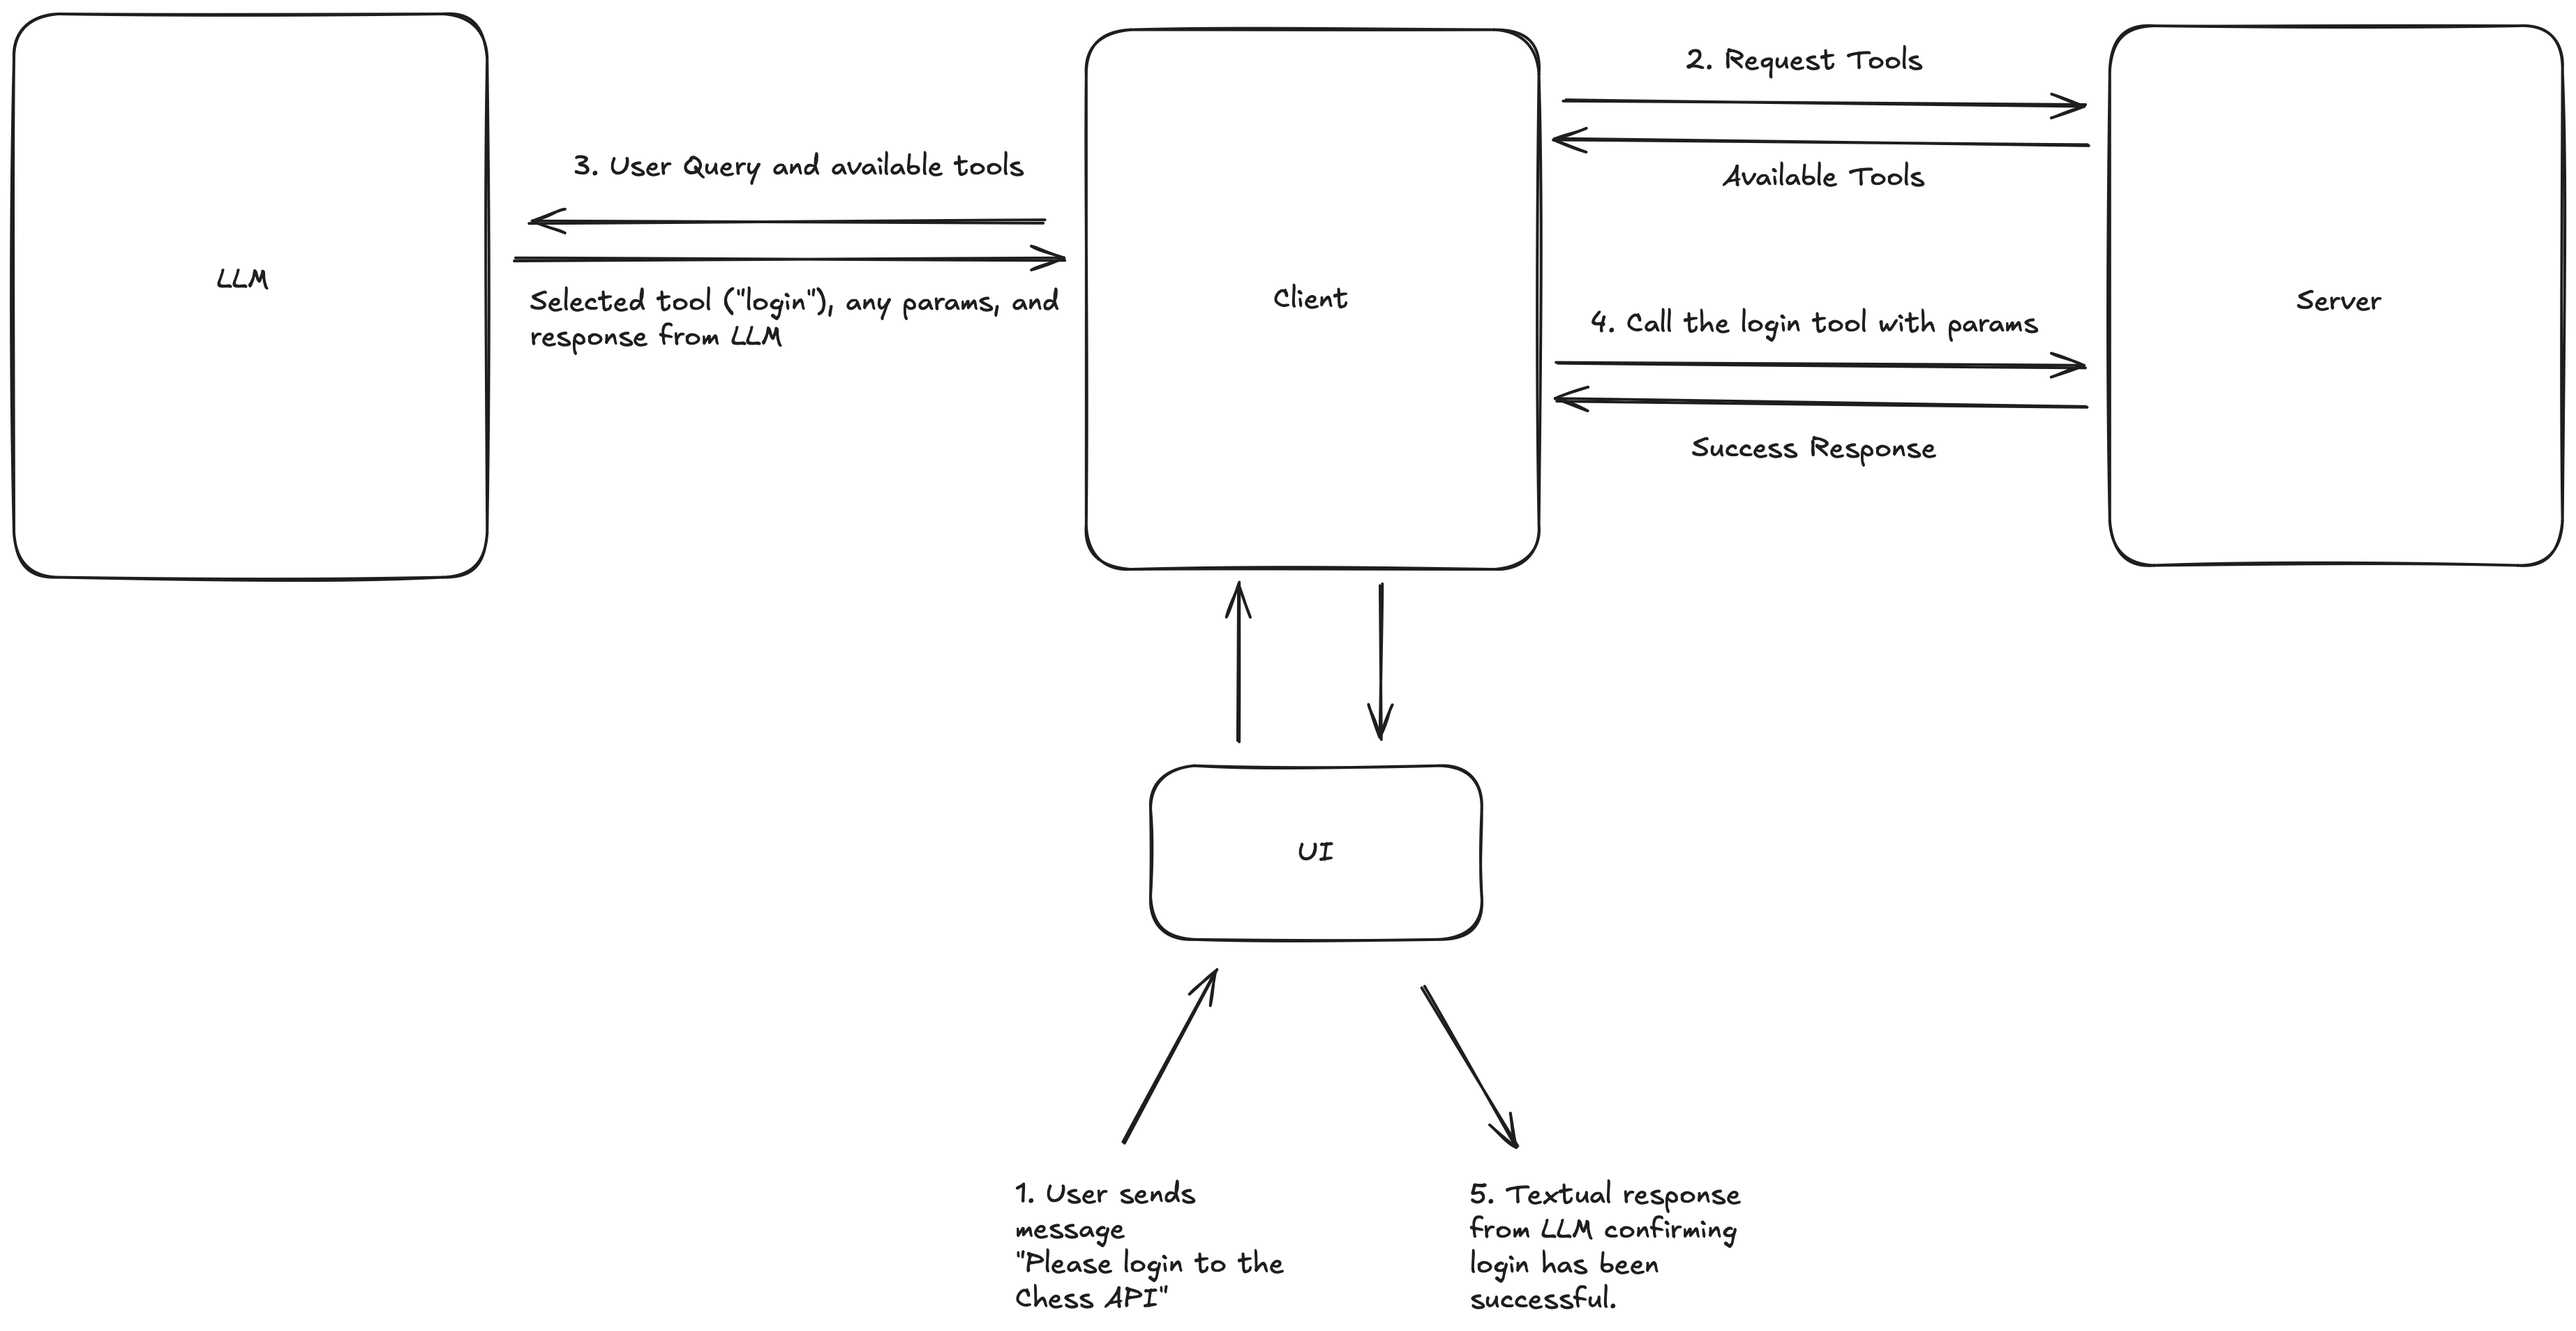
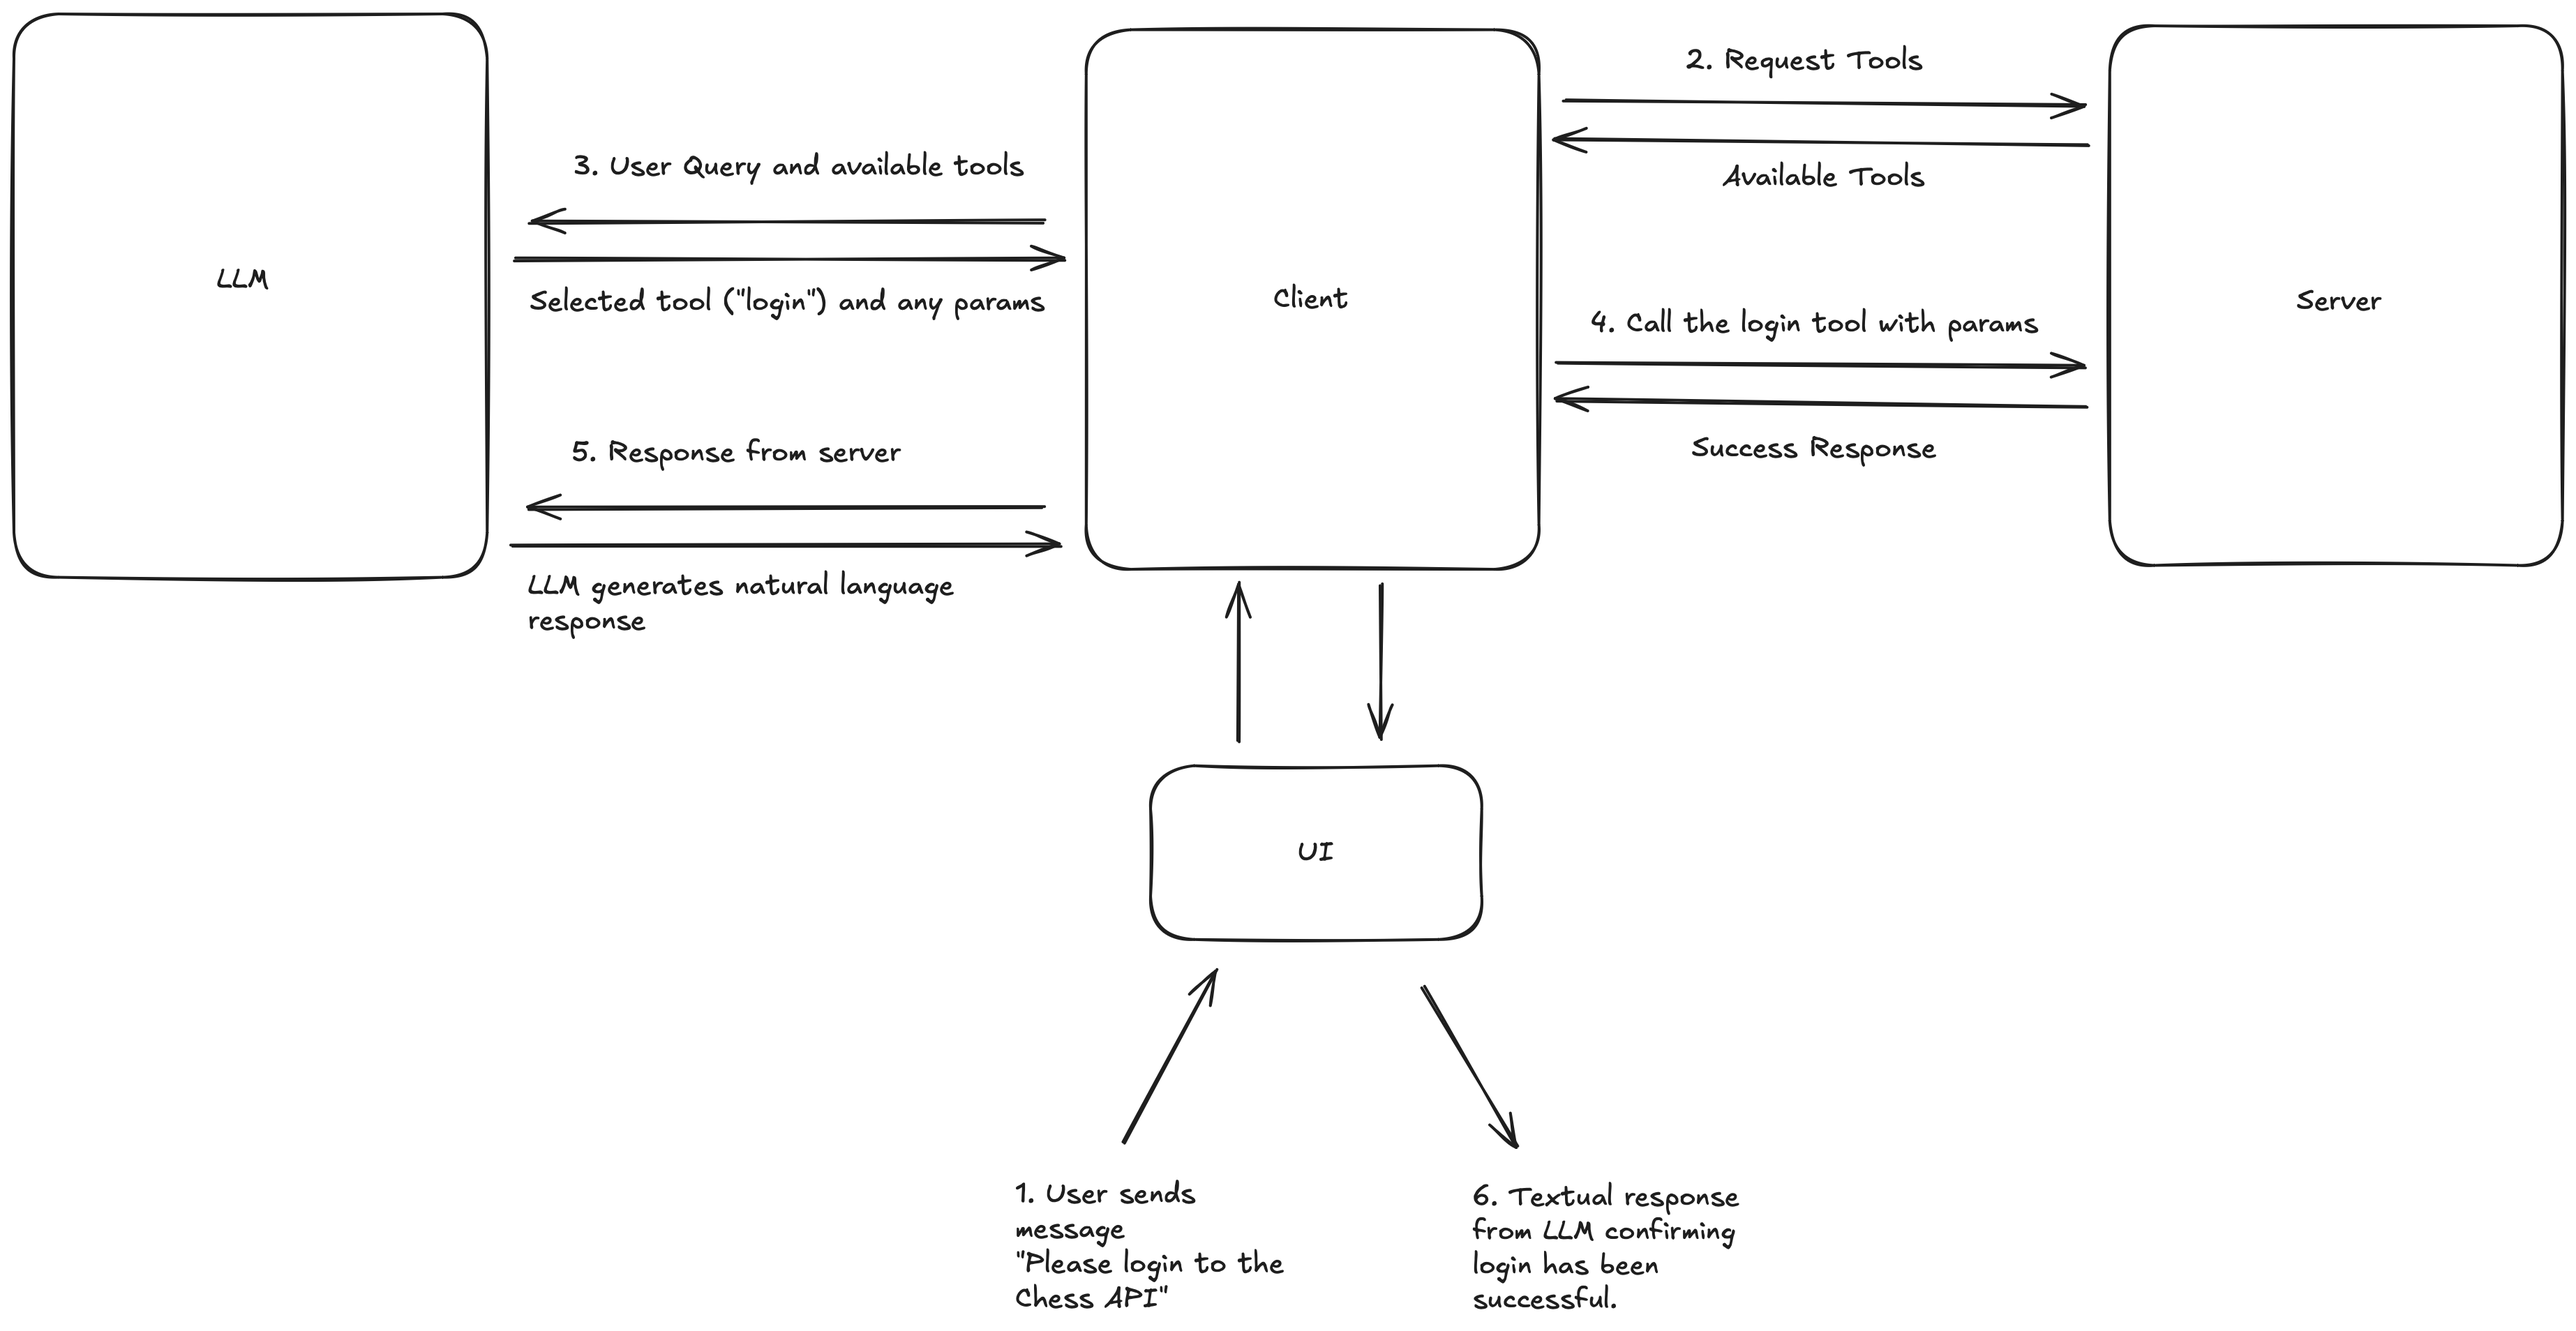
feat: adding missing step to query processing

diff --git a/docs/client-server-interaction.md b/docs/client-server-interaction.md
@@ -241,6 +241,19 @@ messages.append({
 })
 ```
 
+8. Finally, re-prompt LLM with the updated messages object to get a final response to the user:
+
+```python
+response = self.anthropic.messages.create(
+    model="claude-3-5-sonnet-20241022",
+    max_tokens=1000,
+    messages=messages,
+    tools=available_tools
+)
+
+final_text.append(response.content[0].text)
+```
+
 The following diagram illustrates the end-to-end process of requesting the agent to login to the Lichess API from user query to response using the MCP server and LLM:
 
 ![mcp-message-exchange-e2e](imgs/mcp-message-exchange-e2e.png)
